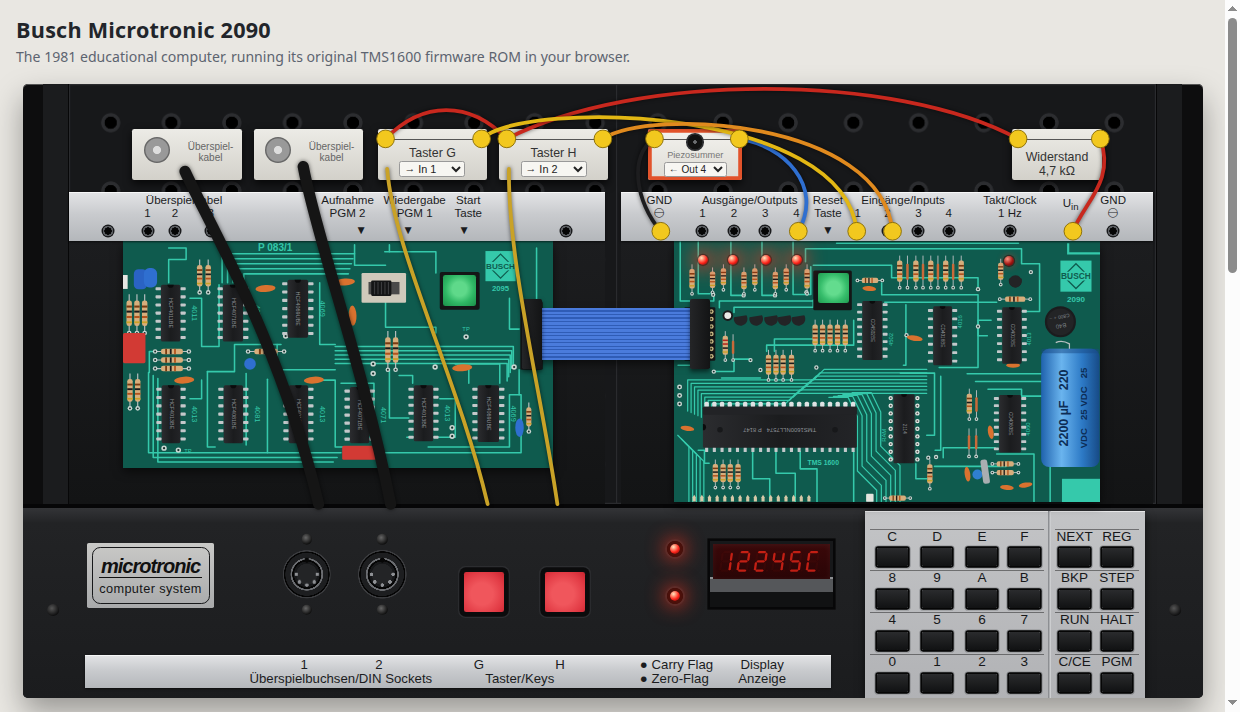
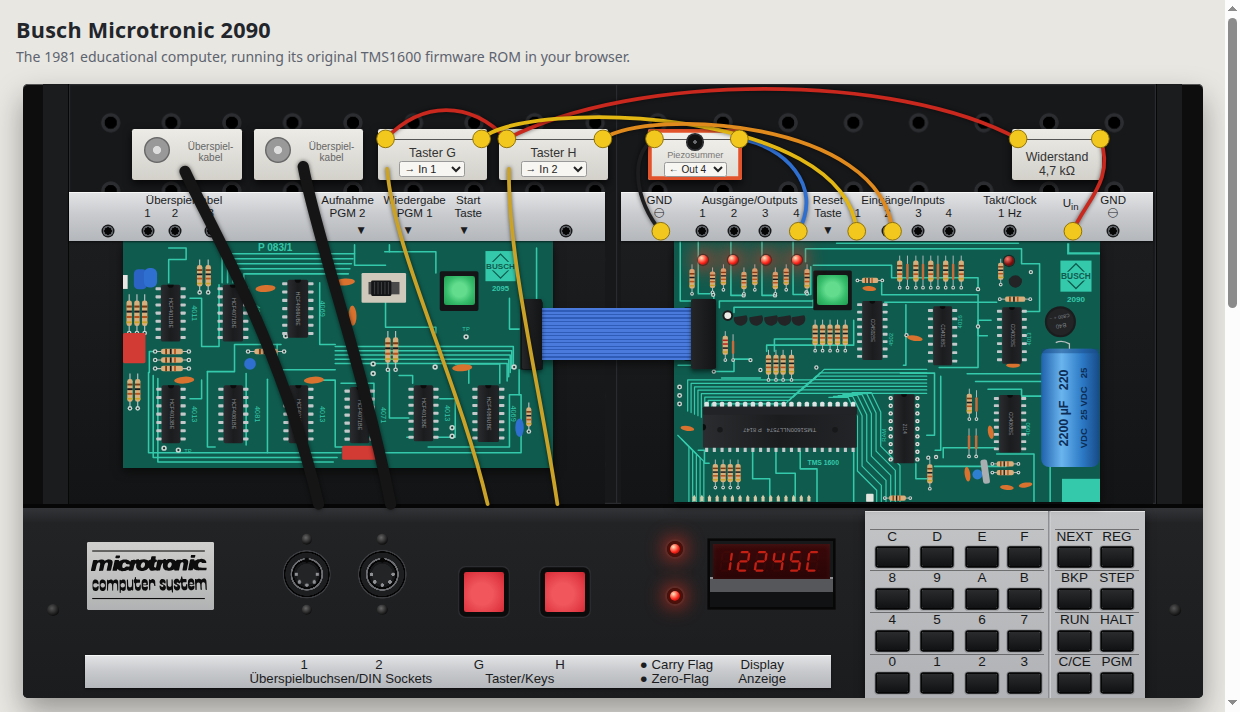
Badge traced from a photo of the real label
Claude-Session: https://claude.ai/code/session_01RRZMkeXQShygyYhWuUdVNF

diff --git a/index.html b/index.html
@@ -73,7 +73,7 @@
 
   <div id="front">
     <i class="screw" style="left:2.6cqw"></i><i class="screw" style="left:97.7cqw"></i>
-    <div id="badge"><b>microtronic</b><span>computer system</span></div>
+    <div id="badge" role="img" aria-label="microtronic computer system"><svg id="badgeart" viewBox="0 0 2668 1432" preserveAspectRatio="none" aria-hidden="true"><path fill-rule="evenodd" d="M695 1076C694 1075 693 1073 692 1072C691 1068 690 1012 689 960C689 934 689 899 689 882C687 806 687 802 696 798C701 796 705 798 712 804C719 811 724 811 737 801C751 790 760 789 778 793C793 797 796 798 800 802C810 811 815 822 818 844C822 870 821 986 817 1000C811 1021 790 1035 766 1035C756 1035 748 1032 735 1022C725 1015 719 1015 715 1024C715 1025 714 1035 714 1046C714 1064 713 1068 712 1071C708 1078 699 1080 695 1076ZM1800 1069C1796 1067 1794 1058 1791 1030C1789 1006 1785 1003 1771 1015C1764 1020 1759 1023 1750 1025C1723 1030 1701 1020 1690 1000C1684 986 1682 972 1681 934C1681 917 1681 894 1680 884C1678 854 1678 822 1679 806C1680 788 1681 786 1692 786C1705 786 1706 790 1706 844C1707 865 1707 884 1707 885C1708 886 1709 895 1709 905C1711 926 1713 930 1722 938C1745 959 1781 948 1785 918C1786 912 1787 857 1786 819C1786 790 1787 788 1799 786C1811 784 1813 795 1814 864C1815 878 1816 913 1816 940C1819 1022 1819 1059 1815 1066C1813 1070 1806 1071 1800 1069ZM170 1037C159 1034 155 1033 146 1027C133 1018 132 1016 126 1002C117 981 117 978 117 917C117 850 117 844 127 824C134 809 144 800 162 795C173 792 191 792 201 797C230 809 240 824 244 860C247 883 246 890 238 893C233 895 228 893 217 883C203 871 200 870 181 870C163 870 163 870 149 880C137 889 131 903 132 920C133 940 142 951 163 960C172 964 173 964 181 964C195 963 211 954 222 941C232 928 243 928 246 942C249 954 244 990 237 1004C233 1013 221 1024 212 1029C198 1036 180 1039 170 1037ZM321 1035C293 1028 287 1023 278 1005C268 985 268 980 268 910C267 843 267 844 276 826C283 811 288 806 300 800C322 790 332 789 352 796C371 802 377 807 388 823C396 837 398 851 399 922C399 980 398 992 386 1010C379 1020 375 1023 362 1030C346 1037 336 1039 321 1035ZM886 1032C881 1030 867 1025 865 1023C861 1020 853 1007 850 1000C847 991 846 982 845 926C842 799 842 803 847 798C852 793 862 794 865 800C867 804 868 818 869 865C870 918 871 928 876 940C882 952 897 960 913 959C932 958 943 947 949 924C951 914 951 912 951 876C951 855 951 832 950 824C949 802 952 795 961 795C968 795 972 798 975 804C977 810 977 810 977 912C978 973 977 1015 977 1017C975 1023 972 1025 966 1026C959 1026 956 1025 953 1019C949 1011 943 1011 934 1020C927 1026 922 1029 912 1031C905 1033 891 1034 886 1032ZM1064 1029C1049 1026 1036 1018 1029 1008C1017 992 1014 981 1014 948C1013 915 1011 882 1010 876C1008 870 1007 869 1000 865C994 860 992 857 991 840C988 812 990 801 997 795C1009 787 1010 785 1011 763C1011 745 1014 740 1023 740C1031 740 1034 745 1035 765C1036 776 1036 780 1038 784C1042 793 1043 793 1079 793C1123 792 1120 791 1121 827C1121 849 1121 851 1119 855C1117 861 1118 861 1090 861C1052 862 1045 864 1042 871C1035 885 1038 926 1047 940C1057 955 1075 960 1090 954C1101 948 1107 939 1112 918C1114 911 1116 905 1117 904C1121 899 1131 900 1134 906C1138 914 1139 971 1135 986C1126 1020 1099 1037 1064 1029ZM536 1028C533 1024 532 1018 532 981C530 910 529 901 523 887C518 878 514 875 504 871C493 867 490 867 476 872C460 877 454 882 451 897C449 902 446 987 446 1017C446 1023 446 1024 444 1027C439 1031 428 1029 426 1024C424 1019 423 996 423 968C423 952 423 934 422 928C421 881 422 815 424 810C426 802 429 799 436 799C442 799 444 800 448 806C453 814 456 814 467 806C474 801 479 799 488 796C499 793 499 793 510 794C527 797 531 799 545 813C556 823 559 822 568 810C573 803 578 799 584 797C590 795 606 792 612 792C628 792 648 804 655 818C660 828 662 863 660 891C659 901 659 906 660 912C662 925 662 1016 660 1021C657 1029 648 1031 643 1025C641 1023 640 1021 640 1015C639 1002 637 960 636 937C636 900 633 888 623 878C608 863 586 861 572 874C556 889 554 901 554 973C553 1032 554 1030 543 1030C539 1030 538 1029 536 1028ZM1212 1027C1209 1026 1203 1024 1200 1024C1181 1019 1167 1003 1160 978C1155 962 1153 928 1155 908C1155 902 1155 892 1155 883C1153 857 1156 828 1162 818C1167 808 1179 795 1189 790C1202 784 1225 782 1238 787C1259 794 1268 803 1277 823C1284 838 1285 843 1286 866C1288 897 1287 906 1282 910C1278 912 1235 914 1218 914C1195 913 1186 915 1183 922C1179 932 1188 944 1206 951C1212 953 1214 953 1224 953C1236 954 1236 954 1248 948C1263 941 1268 940 1274 940C1286 940 1288 943 1287 961C1287 980 1284 990 1271 1008C1259 1023 1231 1033 1212 1027ZM1586 1024C1574 1020 1561 1013 1555 1007C1551 1003 1541 984 1539 976C1538 975 1537 966 1536 958C1534 941 1532 936 1528 933C1523 928 1528 925 1540 925C1551 924 1552 925 1562 935C1572 946 1579 949 1589 950C1603 951 1611 946 1613 934C1616 920 1610 914 1584 905C1573 902 1556 893 1550 888C1541 880 1534 860 1534 842C1534 836 1538 820 1541 814C1542 812 1547 806 1552 801C1561 791 1567 788 1579 785C1591 782 1598 782 1620 787C1626 788 1637 795 1642 800C1646 806 1658 824 1660 830C1660 832 1661 836 1661 838C1661 841 1662 848 1662 855C1664 872 1661 879 1651 878C1645 878 1642 877 1634 870C1624 861 1619 858 1611 859C1596 859 1588 869 1593 881C1596 889 1608 895 1630 902C1664 913 1678 955 1661 992C1657 1000 1641 1017 1633 1022C1623 1028 1602 1029 1586 1024ZM1893 1023C1877 1021 1870 1017 1862 1009C1859 1007 1856 1003 1853 1001C1844 993 1836 971 1835 949C1833 924 1836 919 1849 920C1856 921 1857 922 1862 929C1868 936 1871 939 1878 943C1896 953 1916 942 1912 924C1911 914 1906 910 1887 904C1858 894 1845 884 1837 866C1833 856 1833 832 1836 822C1844 800 1853 790 1870 782C1879 778 1879 778 1892 778C1923 778 1941 789 1954 816C1964 836 1968 834 1969 808C1970 791 1972 787 1978 782C1987 776 1987 773 1988 752C1989 734 1989 731 1993 730C1996 728 2005 729 2008 731C2013 733 2014 736 2015 749C2017 766 2018 774 2021 777C2024 781 2032 782 2060 782C2104 782 2102 780 2104 819C2105 854 2106 852 2072 853C2022 853 2017 857 2021 893C2025 923 2031 935 2045 942C2054 945 2059 946 2068 943C2084 938 2091 928 2093 907C2094 893 2098 889 2107 889C2113 889 2117 891 2120 898C2122 902 2122 902 2122 934C2122 969 2121 979 2113 997C2109 1004 2109 1004 2098 1012C2081 1022 2081 1022 2062 1022C2046 1022 2046 1022 2038 1019C2022 1012 2010 1002 2005 990C1996 973 1993 952 1991 888C1990 860 1988 855 1975 855C1969 855 1966 858 1964 865C1960 879 1949 880 1936 868C1925 857 1912 853 1902 858C1892 864 1891 876 1899 884C1903 887 1912 891 1921 894C1944 901 1957 912 1962 928C1963 930 1965 934 1966 938C1975 959 1965 997 1946 1011C1934 1020 1928 1022 1915 1024C1901 1025 1903 1025 1893 1023ZM1320 1021C1313 1016 1311 977 1309 839C1309 793 1309 792 1320 790C1327 790 1331 791 1333 796C1338 806 1341 807 1348 802C1361 791 1364 789 1368 787C1380 782 1395 782 1406 787C1409 789 1414 791 1416 792C1424 795 1431 803 1436 814C1440 825 1442 838 1442 864C1442 889 1443 908 1446 918C1448 927 1447 928 1435 928C1420 928 1420 927 1418 907C1416 890 1414 884 1408 875C1399 862 1383 857 1366 862C1349 867 1345 873 1340 892C1338 901 1338 903 1338 956C1338 1014 1338 1016 1333 1019C1330 1022 1322 1023 1320 1021ZM2192 1020C2168 1013 2157 1004 2148 985C2139 968 2138 963 2137 946C2136 938 2136 926 2135 919C2134 901 2133 846 2134 835C2136 814 2140 804 2150 793C2167 776 2188 769 2211 773C2222 775 2239 785 2246 792C2248 794 2257 808 2260 813C2262 818 2267 843 2267 853C2267 858 2268 866 2269 872C2271 888 2270 898 2264 901C2258 905 2251 906 2214 906C2175 906 2172 906 2168 911C2164 916 2165 922 2171 927C2182 938 2197 943 2211 942C2218 941 2223 939 2240 932C2257 925 2266 925 2269 932C2271 935 2271 937 2271 951C2270 974 2268 983 2260 992C2258 994 2255 998 2254 1001C2247 1012 2236 1017 2218 1018C2211 1018 2205 1019 2204 1019C2200 1021 2196 1021 2192 1020ZM2298 1015C2295 1012 2293 1009 2292 1002C2290 994 2288 945 2288 926C2288 916 2288 908 2287 905C2287 903 2286 891 2285 879C2284 867 2283 849 2283 839C2280 788 2281 783 2297 783C2305 782 2308 784 2311 789C2316 797 2320 796 2329 787C2337 781 2339 780 2349 777C2359 774 2365 774 2377 778C2389 781 2393 783 2403 790C2417 802 2418 802 2430 790C2439 782 2440 781 2449 778C2481 767 2503 775 2517 803C2522 814 2522 814 2524 834C2525 845 2526 868 2527 884C2528 899 2528 917 2529 923C2530 929 2530 940 2530 948C2530 957 2531 971 2531 980C2532 989 2532 999 2532 1002C2532 1011 2527 1015 2518 1014C2507 1013 2505 1005 2503 956C2502 923 2499 887 2496 880C2494 870 2490 865 2483 860C2475 854 2473 853 2460 852C2448 851 2443 852 2435 860C2422 874 2421 888 2426 984C2427 1009 2424 1017 2414 1016C2408 1015 2404 1013 2401 1007C2399 1002 2399 1000 2396 946C2393 886 2392 883 2382 869C2374 857 2366 854 2351 856C2337 858 2326 864 2321 875C2318 880 2318 880 2318 945C2318 1014 2319 1013 2313 1015C2310 1016 2300 1016 2298 1015ZM347 960C354 957 366 949 370 945C375 938 379 927 380 919C381 897 371 880 352 871C332 862 302 871 293 890C280 914 285 937 305 952C319 963 332 966 347 960ZM769 958C780 956 794 944 799 934C816 894 774 851 737 871C710 884 702 912 716 940C720 947 723 950 733 955C746 961 755 962 769 958ZM1237 897C1245 897 1251 896 1253 895C1264 889 1253 867 1236 862C1211 856 1177 873 1181 890C1184 899 1190 900 1237 897ZM2222 886C2232 885 2235 883 2236 875C2237 863 2218 851 2196 852C2185 853 2182 854 2173 863C2163 872 2163 881 2171 884C2179 886 2207 888 2222 886ZM734 617C722 616 698 609 691 605C684 602 665 587 658 579C648 570 646 569 642 574C639 578 635 587 633 595C631 602 628 606 623 608C617 611 548 611 543 608C538 606 537 602 539 593C540 589 541 583 542 580C543 570 547 550 551 535C556 519 560 502 564 484C565 478 568 467 569 458C571 450 574 436 577 426C581 404 587 386 591 383C595 379 601 378 629 379C643 380 657 380 661 379C673 378 678 382 679 394C681 409 687 411 700 399C706 394 711 392 726 385C745 378 754 375 768 372C781 370 781 370 807 371C831 372 834 372 846 375C865 380 894 395 905 405C915 414 918 412 924 397C932 379 931 379 962 378C1001 376 1007 377 1015 381C1022 386 1025 386 1031 382C1042 376 1062 367 1068 365C1076 363 1090 364 1095 366C1096 368 1099 371 1101 373C1106 384 1108 384 1128 377C1157 366 1179 363 1214 364C1240 366 1274 376 1291 389C1300 396 1303 395 1310 387C1315 379 1321 376 1329 375C1344 374 1350 366 1354 343C1356 325 1361 310 1363 307C1367 304 1371 303 1405 302C1450 301 1450 302 1453 308C1455 312 1453 331 1449 349C1445 367 1448 372 1464 375C1478 377 1478 377 1478 394C1477 410 1475 417 1468 422C1465 424 1463 424 1451 426C1437 427 1432 434 1427 461C1420 495 1419 503 1418 515C1418 527 1418 528 1420 531C1423 534 1429 536 1435 536C1439 536 1445 539 1448 542C1451 544 1451 544 1453 543C1455 542 1459 535 1460 529C1461 526 1462 521 1463 519C1463 516 1465 510 1466 506C1466 501 1468 492 1469 486C1471 479 1473 470 1474 464C1474 459 1476 450 1477 444C1479 437 1480 426 1481 419C1482 408 1483 404 1485 399C1487 395 1489 390 1489 387C1493 376 1494 375 1512 374C1520 373 1535 374 1545 374C1555 375 1566 375 1570 375C1574 376 1576 376 1580 378C1586 383 1588 383 1600 377C1606 374 1613 370 1616 368C1625 363 1636 361 1648 361C1659 362 1663 364 1666 370C1671 381 1676 381 1694 373C1707 367 1716 365 1739 362C1745 361 1752 360 1755 360C1762 359 1768 359 1773 360C1780 361 1797 364 1806 365C1815 366 1830 371 1842 377C1850 381 1853 383 1863 393C1879 408 1881 408 1886 392C1889 382 1891 380 1898 376C1903 374 1903 374 1940 374C1977 374 1977 374 1981 376C1990 382 1996 382 2011 374C2028 366 2032 364 2060 361C2065 360 2089 364 2097 367C2117 374 2127 382 2135 398C2140 408 2140 408 2139 427C2139 449 2137 457 2132 477C2130 483 2128 491 2127 496C2127 501 2125 509 2123 516C2121 522 2120 531 2119 538C2118 544 2118 551 2117 554C2117 556 2116 563 2115 568C2114 579 2109 593 2105 598C2101 602 2099 602 2082 603C2074 603 2061 603 2052 604C2034 605 2028 604 2023 601C2017 597 2017 593 2021 569C2023 559 2025 550 2025 548C2025 546 2026 542 2027 538C2027 534 2029 528 2030 523C2030 518 2032 510 2033 504C2040 464 2040 464 2040 454C2039 439 2034 431 2024 428C2019 426 2009 427 2004 429C1998 432 1983 446 1980 452C1975 461 1969 479 1967 491C1964 509 1962 522 1958 534C1957 538 1956 546 1955 551C1954 564 1947 594 1944 598C1941 603 1938 604 1909 604C1894 605 1881 605 1879 606C1878 606 1871 606 1865 605C1850 604 1848 603 1845 593C1842 582 1841 582 1824 589C1791 603 1762 609 1734 608C1731 608 1721 608 1712 608C1695 607 1693 607 1686 605C1682 603 1675 601 1671 600C1666 599 1661 597 1658 596C1654 594 1635 580 1629 574C1625 570 1615 556 1611 549C1603 534 1601 499 1606 478C1611 459 1608 450 1596 452C1594 453 1591 455 1588 458C1574 472 1563 506 1549 576C1545 596 1541 603 1533 604C1517 607 1457 607 1452 604C1450 604 1448 601 1446 600C1443 595 1440 595 1435 600C1427 606 1428 606 1395 607C1360 607 1355 607 1343 601C1327 593 1317 579 1314 559C1311 540 1307 539 1294 556C1284 568 1261 589 1254 593C1244 598 1228 603 1204 608C1178 613 1169 613 1146 611C1116 608 1095 602 1082 593C1061 578 1058 574 1051 560C1049 555 1046 549 1044 547C1037 537 1035 505 1041 474C1043 460 1041 454 1033 455C1022 457 1016 463 1008 480C1000 496 997 506 994 521C991 537 989 550 986 560C984 565 982 574 981 580C975 606 974 607 921 607C887 608 882 607 880 595C878 583 876 583 846 597C822 609 817 611 793 615C780 617 747 619 734 617ZM89 613C83 611 82 608 84 598C85 593 87 583 88 576C91 561 97 533 102 515C103 508 106 497 107 490C109 477 112 463 117 442C119 435 120 427 121 423C122 415 128 396 130 391C134 383 137 382 175 382C210 381 212 381 219 387C226 392 229 392 240 387C268 372 294 367 324 372C345 376 352 379 368 392C377 399 379 398 400 388C421 377 430 374 447 370C460 367 461 367 470 368C492 370 515 378 526 388C533 393 536 398 540 410C544 422 544 429 541 440C540 444 538 452 538 458C537 464 536 471 536 474C535 476 533 485 531 494C529 509 526 523 519 550C517 556 515 566 514 572C512 582 506 596 503 601C498 608 489 610 452 610C423 610 419 609 417 605C415 600 419 578 429 532C432 523 434 513 434 510C435 508 436 502 438 498C440 493 441 484 442 480C443 475 443 468 444 464C446 454 442 445 434 438C423 427 397 435 386 451C381 458 373 472 371 478C369 485 358 528 357 536C356 539 354 548 353 555C351 562 348 574 346 581C341 604 339 608 330 610C324 611 265 612 261 611C255 609 254 607 254 601C254 595 257 575 261 560C262 555 264 546 265 542C265 537 268 526 270 517C280 476 282 450 274 442C265 432 245 432 230 442C221 448 209 469 205 486C200 503 193 534 190 550C187 563 183 578 177 599C175 608 172 612 166 612C159 613 93 614 89 613ZM2158 600C2142 599 2141 599 2139 594C2137 590 2138 586 2141 568C2146 543 2148 530 2149 524C2149 521 2151 512 2152 504C2154 497 2156 487 2156 482C2158 472 2160 461 2163 452C2165 444 2169 429 2169 421C2170 418 2171 410 2173 403C2175 396 2176 388 2177 385C2179 377 2182 372 2186 370C2193 366 2255 367 2266 370C2271 372 2273 375 2273 385C2273 393 2273 394 2275 395C2280 399 2287 396 2295 388C2299 385 2304 382 2313 378C2319 375 2328 371 2332 369C2335 368 2339 366 2341 366C2342 366 2347 365 2351 364C2360 361 2380 359 2402 357C2432 355 2456 360 2480 372C2496 380 2498 381 2508 394C2518 409 2521 415 2522 426C2522 436 2521 441 2517 444C2515 445 2511 446 2479 446C2437 446 2437 446 2430 438C2417 422 2411 419 2399 421C2389 422 2382 425 2373 433C2364 441 2362 443 2356 457C2350 472 2349 476 2348 488C2347 510 2354 529 2367 535C2381 542 2387 543 2479 542C2509 542 2512 542 2518 544C2530 547 2531 548 2527 567C2525 584 2522 592 2518 595C2515 597 2501 598 2468 598C2453 599 2441 599 2440 600C2439 600 2425 600 2410 599C2387 598 2378 599 2370 600C2358 601 2347 600 2320 597C2309 596 2295 591 2274 580C2272 579 2266 574 2260 569C2245 554 2242 555 2238 577C2236 587 2234 593 2231 597C2227 600 2227 600 2199 600C2184 601 2165 600 2158 600ZM790 547C793 545 799 540 805 534C810 529 816 524 818 523C821 522 878 519 880 521C883 522 892 520 895 517C898 513 902 500 903 488C904 472 900 470 852 468C826 467 826 467 822 454C817 437 813 434 797 434C785 434 776 438 768 446C763 451 751 474 748 486C745 498 745 525 748 532C755 548 774 555 790 547ZM1184 547C1191 543 1209 527 1213 520C1219 510 1227 478 1227 464C1227 455 1224 448 1216 439C1200 424 1180 425 1161 444C1141 464 1129 508 1139 528C1148 548 1167 555 1184 547ZM1745 543C1755 540 1759 537 1767 529C1774 522 1775 520 1780 509C1789 490 1790 483 1790 467C1791 452 1788 445 1781 437C1764 417 1727 432 1712 465C1706 478 1704 487 1704 504C1703 520 1704 523 1713 534C1720 544 1732 548 1745 543ZM630 342C603 342 603 341 601 339C598 336 598 331 601 324C602 321 603 315 604 311C607 292 611 287 624 285C633 284 683 284 689 285C696 287 698 291 698 300C697 310 693 328 690 334C685 343 684 343 630 342ZM2199 334C2196 334 2192 329 2191 324C2190 320 2191 317 2194 302C2198 279 2199 278 2208 275C2215 272 2245 272 2268 273C2285 275 2286 275 2288 277C2290 280 2291 286 2289 293C2288 295 2287 302 2286 308C2282 330 2280 332 2256 333C2242 334 2203 335 2199 334Z"/><rect x="110" y="179" width="2380" height="23"/><rect x="110" y="1184" width="2380" height="23"/></svg></div>
     <i class="din" style="left:24.1cqw"></i><i class="din" style="left:30.5cqw"></i>
     <button class="redkey" data-btn="G" aria-label="Key G" title="Key G (keyboard: ,)" style="left:39.1cqw"></button>
     <button class="redkey" data-btn="H" aria-label="Key H" title="Key H (keyboard: .)" style="left:46cqw"></button>

diff --git a/css/microtronic.css b/css/microtronic.css
@@ -93,11 +93,8 @@ button.jack.on { width: 1.6cqw; height: 1.6cqw; background: radial-gradient(circ
 #front { position: relative; height: 16.5cqw; background: linear-gradient(180deg, #333437 0, #222325 8%, #1b1c1e 100%); border-top: .35cqw solid #060607; }
 #front > * { position: absolute; }
 .screw { width: 1cqw; height: 1cqw; top: 8.7cqw; border-radius: 50%; transform: translate(-50%, -50%); background: radial-gradient(circle at 40% 35%, #555, #101011 70%); }
-#badge { left: 5.5cqw; top: 3cqw; width: 10.7cqw; height: 5.5cqw; background: linear-gradient(180deg, #c9c9c7, #a9aaab); color: #101113; border-radius: .15cqw;
-  display: flex; flex-direction: column; justify-content: center; align-items: center; line-height: 1; }
-#badge::before { content: ""; position: absolute; left: .45cqw; right: .45cqw; top: .62cqw; bottom: .62cqw; border: solid #17181a; border-width: .13cqw 0; }
-#badge b { font: italic 900 1.7cqw/1 "Arial Black", "Helvetica Neue", Arial, sans-serif; letter-spacing: -.05em; color: #111; }
-#badge span { margin-top: .5cqw; font: 700 1.12cqw/1 "Trebuchet MS", Verdana, Arial, sans-serif; letter-spacing: .03em; color: #151617; }
+#badge { left: 5.5cqw; top: 2.9cqw; width: 10.7cqw; height: 5.74cqw; background: linear-gradient(180deg, #cfcfcd, #b1b2b3); border-radius: .12cqw; }
+#badgeart { position: absolute; inset: 0; width: 100%; height: 100%; fill: #0d0d0e; }
 .din { top: 5.65cqw; width: 4.1cqw; height: 4.1cqw; border-radius: 50%; transform: translate(-50%, -50%);
   background:
     radial-gradient(circle at 50% 21%, #060606 0 5%, transparent 6%),

diff --git a/tools-trace-badge.py b/tools-trace-badge.py
@@ -1,0 +1,31 @@
+"""Trace the lettering of the console badge from a photo (pics/badge.jpg) into the SVG used in index.html.
+Needs: pip install potracer pillow numpy. Writes badge.svg."""
+import potrace, numpy as np
+from PIL import Image, ImageFilter
+im = Image.open('/home/mike/claude/microtronic/emulator/pics/badge.jpg').convert('L')
+W, H = im.size; print(W, H)
+# silver plate bounds (inside the dark surround), found from row/column brightness
+a = np.asarray(im).astype(float)
+cols = a[H//3:2*H//3].mean(0); rows = a[:, W//3:2*W//3].mean(1)
+xs = np.where(cols > 110)[0]; ys = np.where(rows > 110)[0]
+x0, x1, y0, y1 = xs[0], xs[-1], ys[0], ys[-1]; print('plate', x0, x1, y0, y1)
+p = im.crop((x0, y0, x1 + 1, y1 + 1))
+S = 4
+p = p.resize((p.width * S, p.height * S), Image.LANCZOS).filter(ImageFilter.GaussianBlur(5))
+b = np.asarray(p) >= 95                      # potracer traces the False (dark) areas here
+hh, ww = b.shape
+ink = ~b
+RULES = (179, 201, 1184, 1206, 110, 2490)     # measured off the first trace: y-range of each rule, x-range
+b[:int(hh*0.155)] = True; b[int(hh*0.78):] = True; b[:, :int(ww*0.03)] = True; b[:, int(ww*0.97):] = True
+bm = potrace.Bitmap(b); pl = bm.trace(turdsize=120, alphamax=1.1, opttolerance=0.4)
+d = []
+for c in pl:
+    s = c.start_point; d.append(f'M{s.x:.0f} {s.y:.0f}')
+    for seg in c.segments:
+        if seg.is_corner: d.append(f'L{seg.c.x:.0f} {seg.c.y:.0f}L{seg.end_point.x:.0f} {seg.end_point.y:.0f}')
+        else: d.append(f'C{seg.c1.x:.0f} {seg.c1.y:.0f} {seg.c2.x:.0f} {seg.c2.y:.0f} {seg.end_point.x:.0f} {seg.end_point.y:.0f}')
+    d.append('Z')
+path = ''.join(d)
+svg = f'<svg id="badgeart" viewBox="0 0 {p.width} {p.height}" preserveAspectRatio="none" aria-hidden="true"><path fill-rule="evenodd" d="{path}"/><rect x="{RULES[4]}" y="{RULES[0]}" width="{RULES[5]-RULES[4]}" height="{RULES[1]-RULES[0]+1}"/><rect x="{RULES[4]}" y="{RULES[2]}" width="{RULES[5]-RULES[4]}" height="{RULES[3]-RULES[2]+1}"/></svg>'
+open('badge.svg', 'w').write(svg); print(len(pl), 'curves', len(svg), 'bytes', 'aspect', p.width / p.height)
+open('badge_preview.svg','w').write(svg.replace('<svg ','<svg xmlns="http://www.w3.org/2000/svg" width="1340" style="background:#c0c0be" '))
